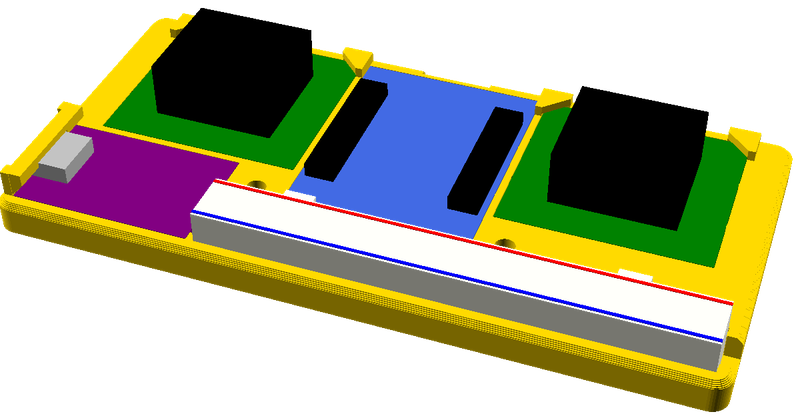
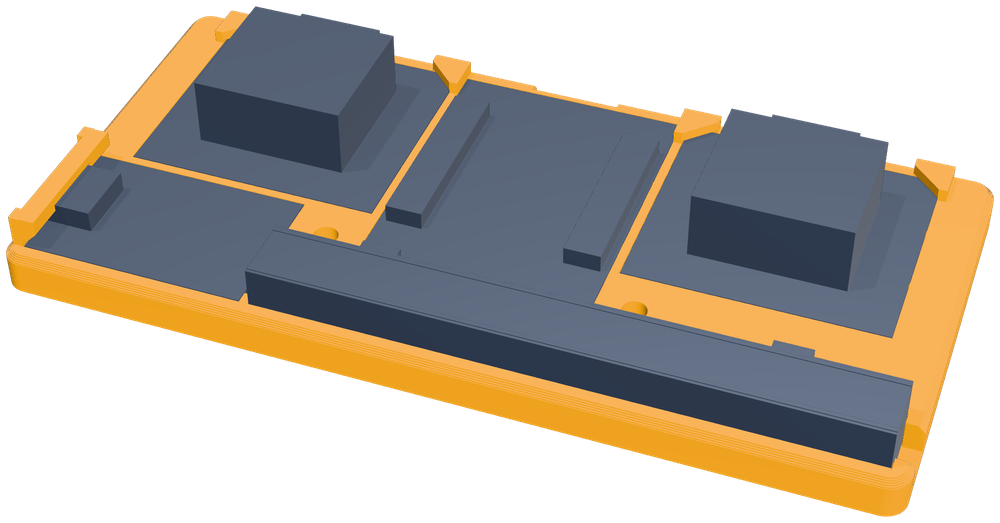
feat: switch to the Three.js renders of the robot (0.5.0)
Overall view, front-left view and electronics carrier now come from the
Three.js renders with alpha channel; poster and og.png are rebuilt from
them. cad_renders.py only trims and scales renders that already have
alpha. Alt texts describe the new colours; the portrait hero image is
capped in height.

diff --git a/de/index.html b/de/index.html
@@ -16,7 +16,7 @@
 <meta property="og:description" content="PlotBot, der Zeichenroboter – selbst gedruckt, selbst verkabelt, mit Blockly programmiert. Das PlotBot-Kit zeigt, wie es geht.">
 <meta property="og:url" content="https://plotbot-kit.github.io/de/">
 <meta property="og:image" content="https://plotbot-kit.github.io/img/og.png">
-<meta property="og:image:alt" content="3D-Modell des PlotBot: gelbe Grundplatte, zwei Arme, die sich am Stift treffen">
+<meta property="og:image:alt" content="3D-Modell des PlotBot: dunkelgraue Grundplatte, zwei Arme, die sich am Stift treffen">
 <meta name="twitter:card" content="summary_large_image">
 <link rel="stylesheet" href="../css/site.css">
 <script src="../js/film.js" defer></script>
@@ -39,8 +39,8 @@
     <figure class="stage">
       <picture>
         <source srcset="../img/roboter.webp" type="image/webp">
-        <img class="robot" src="../img/roboter.png" width="549" height="686"
-             alt="3D-Modell des PlotBot: Auf einer gelben Grundplatte drehen zwei Motoren je einen Arm; die Arme treffen sich an einem senkrecht stehenden roten Stift.">
+        <img class="robot" src="../img/roboter.png" width="800" height="1021"
+             alt="3D-Modell des PlotBot: Auf einer dunkelgrauen Grundplatte drehen zwei Motoren je einen orangefarbenen Oberarm; die hellgrauen Unterarme treffen sich an einem senkrecht stehenden Stift.">
       </picture>
       <figcaption>So sieht er aus, wenn alles gedruckt und verschraubt ist (3D-Modell).</figcaption>
     </figure>
@@ -105,7 +105,7 @@
     <figure>
       <picture>
         <source srcset="../img/elektronik.webp" type="image/webp">
-        <img src="../img/elektronik.png" width="800" height="420" loading="lazy"
+        <img src="../img/elektronik.png" width="1000" height="523" loading="lazy"
              alt="3D-Modell des Elektronikträgers: Board in der Mitte, links und rechts je eine Motortreiber-Platine, davor eine Stromschiene.">
       </picture>
       <figcaption>Der Elektronikträger: Board, zwei Motortreiber und eine Stromschiene auf einer gedruckten Platte (3D-Modell).</figcaption>
@@ -152,8 +152,8 @@
     <figure>
       <picture>
         <source srcset="../img/roboter-vorne.webp" type="image/webp">
-        <img src="../img/roboter-vorne.png" width="596" height="653" loading="lazy"
-             alt="3D-Modell des PlotBot von vorn links: Stifthalter mit rotem Stift vorn, dahinter die beiden Arme und die Grundplatte mit Motoren.">
+        <img src="../img/roboter-vorne.png" width="800" height="884" loading="lazy"
+             alt="3D-Modell des PlotBot von vorn links: Stifthalter mit senkrechtem Stift vorn, dahinter die beiden Arme und die Grundplatte mit Motoren.">
       </picture>
       <figcaption>Ansicht von vorn links (3D-Modell).</figcaption>
     </figure>
@@ -189,7 +189,7 @@
 
 <footer>
   <div class="wrap">
-    <p>PlotBot-Kit – Webseite Version <span class="version">0.4.0</span>. Die Bilder sind 3D-Modelle, Zeichnungen aus den Beispielprogrammen des PlotBot und ein Bildschirmfoto seiner Handyseite.
+    <p>PlotBot-Kit – Webseite Version <span class="version">0.5.0</span>. Die Bilder sind 3D-Modelle, Zeichnungen aus den Beispielprogrammen des PlotBot und ein Bildschirmfoto seiner Handyseite.
       · <a href="../en/" hreflang="en" lang="en" data-lang="en">English version</a></p>
   </div>
 </footer>

diff --git a/en/index.html b/en/index.html
@@ -16,7 +16,7 @@
 <meta property="og:description" content="PlotBot, the drawing robot – you print it, wire it and program it in Blockly. The PlotBot-Kit shows you how.">
 <meta property="og:url" content="https://plotbot-kit.github.io/en/">
 <meta property="og:image" content="https://plotbot-kit.github.io/img/og.png">
-<meta property="og:image:alt" content="3D model of PlotBot: a yellow base plate and two arms that meet at the pen">
+<meta property="og:image:alt" content="3D model of PlotBot: a dark grey base plate and two arms that meet at the pen">
 <meta name="twitter:card" content="summary_large_image">
 <link rel="stylesheet" href="../css/site.css">
 <script src="../js/film.js" defer></script>
@@ -39,8 +39,8 @@
     <figure class="stage">
       <picture>
         <source srcset="../img/roboter.webp" type="image/webp">
-        <img class="robot" src="../img/roboter.png" width="549" height="686"
-             alt="3D model of PlotBot: on a yellow base plate, two motors each turn an arm; the arms meet at an upright red pen.">
+        <img class="robot" src="../img/roboter.png" width="800" height="1021"
+             alt="3D model of PlotBot: on a dark grey base plate, two motors each turn an orange upper arm; the light grey forearms meet at an upright pen.">
       </picture>
       <figcaption>What it looks like once everything is printed and screwed together (3D model).</figcaption>
     </figure>
@@ -105,7 +105,7 @@
     <figure>
       <picture>
         <source srcset="../img/elektronik.webp" type="image/webp">
-        <img src="../img/elektronik.png" width="800" height="420" loading="lazy"
+        <img src="../img/elektronik.png" width="1000" height="523" loading="lazy"
              alt="3D model of the electronics carrier: the board in the middle, a motor driver board on each side, a power rail in front.">
       </picture>
       <figcaption>The electronics carrier: board, two motor drivers and a power rail on a printed plate (3D model).</figcaption>
@@ -152,8 +152,8 @@
     <figure>
       <picture>
         <source srcset="../img/roboter-vorne.webp" type="image/webp">
-        <img src="../img/roboter-vorne.png" width="596" height="653" loading="lazy"
-             alt="3D model of PlotBot from the front left: the pen holder with its red pen in front, the two arms and the base plate with motors behind.">
+        <img src="../img/roboter-vorne.png" width="800" height="884" loading="lazy"
+             alt="3D model of PlotBot from the front left: the pen holder with its upright pen in front, the two arms and the base plate with motors behind.">
       </picture>
       <figcaption>Front-left view (3D model).</figcaption>
     </figure>
@@ -189,7 +189,7 @@
 
 <footer>
   <div class="wrap">
-    <p>PlotBot-Kit – website version <span class="version">0.4.0</span>. The images are 3D models, drawings from the robot's example programs and a screenshot of its phone page.
+    <p>PlotBot-Kit – website version <span class="version">0.5.0</span>. The images are 3D models, drawings from the robot's example programs and a screenshot of its phone page.
       · <a href="../de/" hreflang="de" lang="de" data-lang="de">Deutsche Version</a></p>
   </div>
 </footer>

diff --git a/css/site.css b/css/site.css
@@ -36,7 +36,7 @@ a:focus-visible, .button:focus-visible { outline: 3px solid var(--pink); outline
 .hero h1 span { color: var(--pink); }
 .hero .kicker { font-size: 1.25rem; margin: 0 0 1rem; color: var(--muted); }
 .stage { position: relative; }
-.stage .robot { width: min(80%, 26rem); margin: 0 auto; padding-top: .5rem; }
+.stage .robot { width: auto; max-width: min(80%, 26rem); max-height: min(30rem, 62vh); margin: 0 auto; padding-top: .5rem; }
 .doodles { display: grid; grid-template-columns: repeat(4, 1fr); gap: .5rem; max-width: 26rem; margin: 0; padding: 0; list-style: none; }
 .doodles li { background: #fff; border-radius: .75rem; padding: .5rem; box-shadow: 0 2px 0 var(--line); text-align: center; font-size: .85rem; color: var(--muted); }
 .doodles img { width: 100%; max-width: 4.5rem; aspect-ratio: 1; height: auto; object-fit: contain; margin: 0 auto .25rem; }

diff --git a/index.html b/index.html
@@ -46,11 +46,11 @@
     <figure class="stage">
       <picture>
         <source srcset="img/roboter.webp" type="image/webp">
-        <img class="robot" src="img/roboter.png" width="549" height="686" alt="3D-Modell des PlotBot / 3D model of PlotBot">
+        <img class="robot" src="img/roboter.png" width="800" height="1021" alt="3D-Modell des PlotBot / 3D model of PlotBot">
       </picture>
     </figure>
   </div>
 </main>
-<footer><div class="wrap"><p>Version <span class="version">0.4.0</span></p></div></footer>
+<footer><div class="wrap"><p>Version <span class="version">0.5.0</span></p></div></footer>
 </body>
 </html>

diff --git a/tools/cad_renders.py b/tools/cad_renders.py
@@ -1,26 +1,37 @@
-# Regenerates img/roboter*, img/elektronik* from the CAD renders in the zeichenroboter repo (run from the site root)
+# Regenerates img/roboter*, img/roboter-vorne*, img/elektronik* from the renders in the robot repo (run from the site root).
+# Usage: python3 -I tools/cad_renders.py <dir with baugruppe.png, baugruppe_vorne_links.png, elektroniktraeger_bestueckt.png>
+# Renders with an alpha channel (Three.js) are only trimmed and scaled; opaque renders (old OpenSCAD preview) get their background keyed out.
 import sys
 from PIL import Image
-src = sys.argv[1].rstrip("/") + "/"   # path to cad/png in the robot repo
-def key(name, out, crop=None, w=None):
-    im = Image.open(src + name).convert("RGB")
-    bg = im.getpixel((2, 2))
-    px = im.load(); W, H = im.size
-    a = Image.new("L", im.size)
-    ap = a.load()
-    for y in range(H):
-        for x in range(W):
-            r, g, b = px[x, y]
-            d = abs(r-bg[0]) + abs(g-bg[1]) + abs(b-bg[2])
-            ap[x, y] = 0 if d < 6 else (255 if d > 40 else int((d-6)*255/34))
-    rgba = im.convert("RGBA"); rgba.putalpha(a)
-    box = a.getbbox(); m = 12
-    rgba = rgba.crop((max(box[0]-m,0), max(box[1]-m,0), min(box[2]+m,W), min(box[3]+m,H)))
-    if w and rgba.width > w: rgba = rgba.resize((w, round(rgba.height*w/rgba.width)), Image.LANCZOS)
-    rgba.save("img/" + out + ".webp", "WEBP", quality=88, method=6)   # fresh file: no EXIF/metadata
-    rgba.save("img/" + out + ".png", optimize=True)
-    print(out, rgba.size, bg)
-key("baugruppe.png", "roboter", w=900)
-key("baugruppe_vorne_links.png", "roboter-vorne", w=900)
-key("elektroniktraeger_bestueckt.png", "elektronik", w=800)
 
+src = sys.argv[1].rstrip("/") + "/"
+
+
+def alpha_of(im):
+    """Alpha channel of the render; for opaque images, key out the flat background colour."""
+    if im.mode in ("RGBA", "LA") or "transparency" in im.info:
+        return im.convert("RGBA").getchannel("A")
+    rgb = im.convert("RGB"); bg = rgb.getpixel((2, 2)); px = rgb.load()
+    a = Image.new("L", rgb.size); ap = a.load()
+    for y in range(rgb.height):
+        for x in range(rgb.width):
+            d = sum(abs(c - b) for c, b in zip(px[x, y], bg))
+            ap[x, y] = 0 if d < 6 else (255 if d > 40 else int((d - 6) * 255 / 34))
+    return a
+
+
+def render(name, out, w):
+    im = Image.open(src + name)
+    rgba = im.convert("RGBA"); rgba.putalpha(alpha_of(im))
+    box = rgba.getchannel("A").getbbox(); m = 12
+    rgba = rgba.crop((max(box[0] - m, 0), max(box[1] - m, 0), min(box[2] + m, rgba.width), min(box[3] + m, rgba.height)))
+    if rgba.width > w:
+        rgba = rgba.resize((w, round(rgba.height * w / rgba.width)), Image.LANCZOS)
+    rgba.save("img/" + out + ".webp", "WEBP", quality=88, method=6)   # fresh files: no EXIF/metadata
+    rgba.save("img/" + out + ".png", optimize=True)
+    print(out, rgba.size)
+
+
+render("baugruppe.png", "roboter", 800)
+render("baugruppe_vorne_links.png", "roboter-vorne", 800)
+render("elektroniktraeger_bestueckt.png", "elektronik", 1000)
